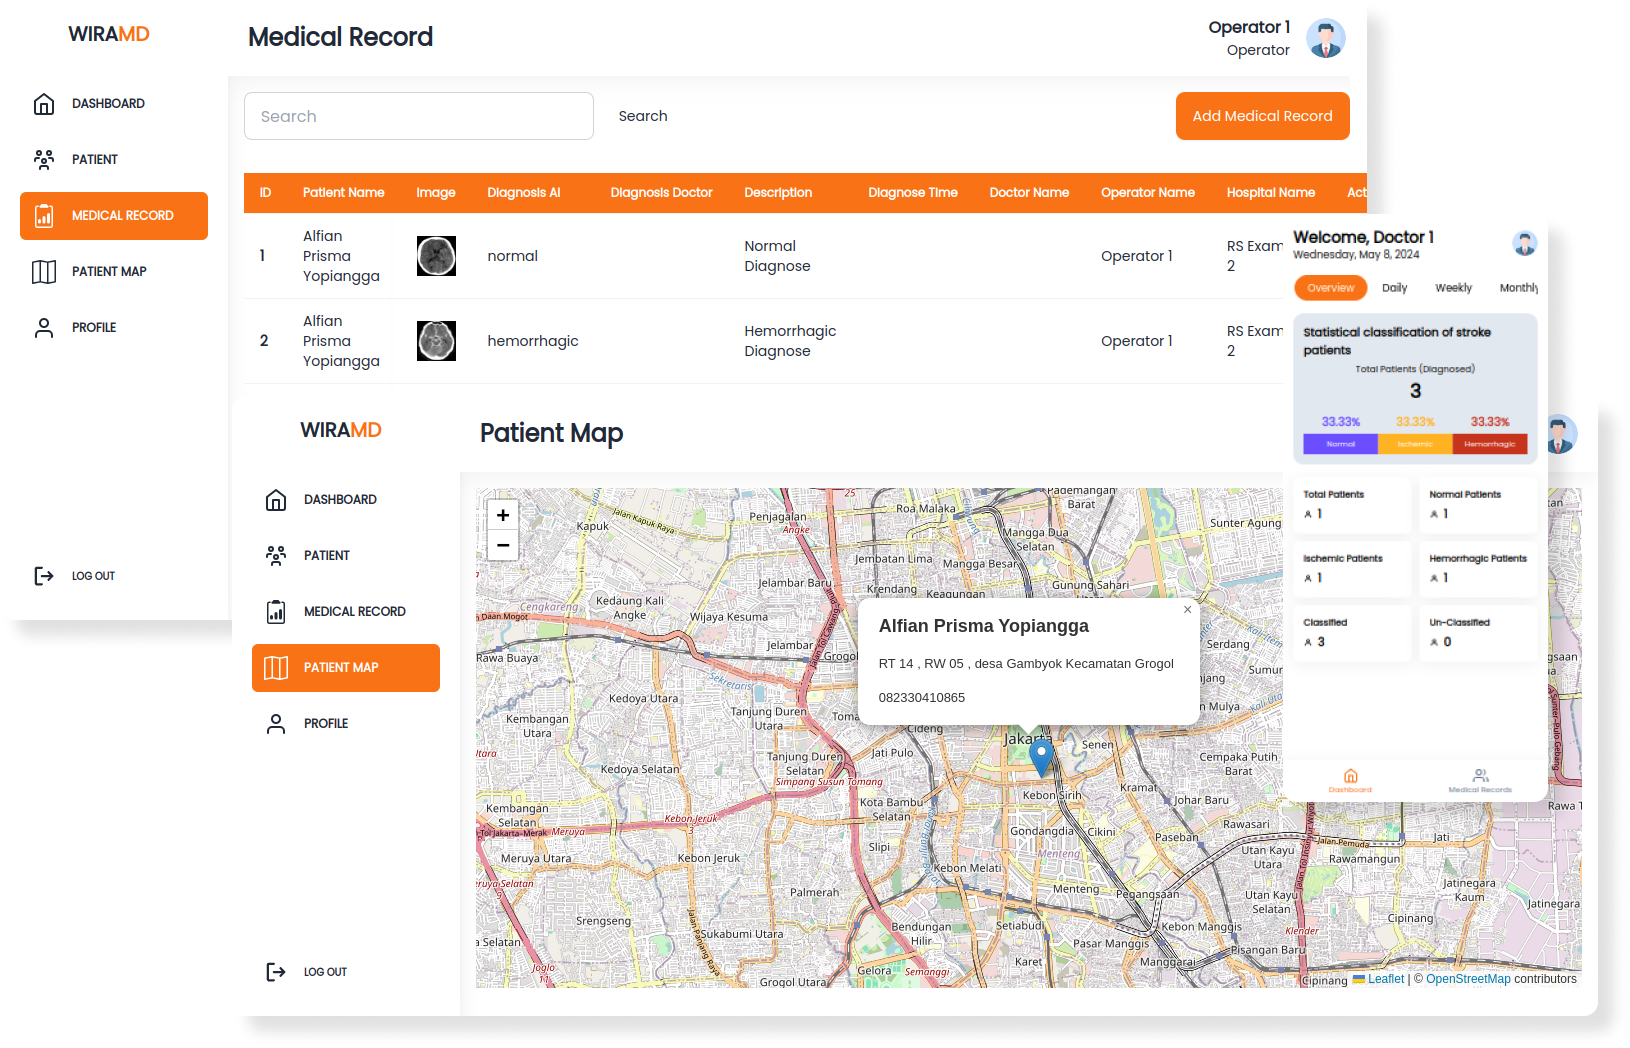
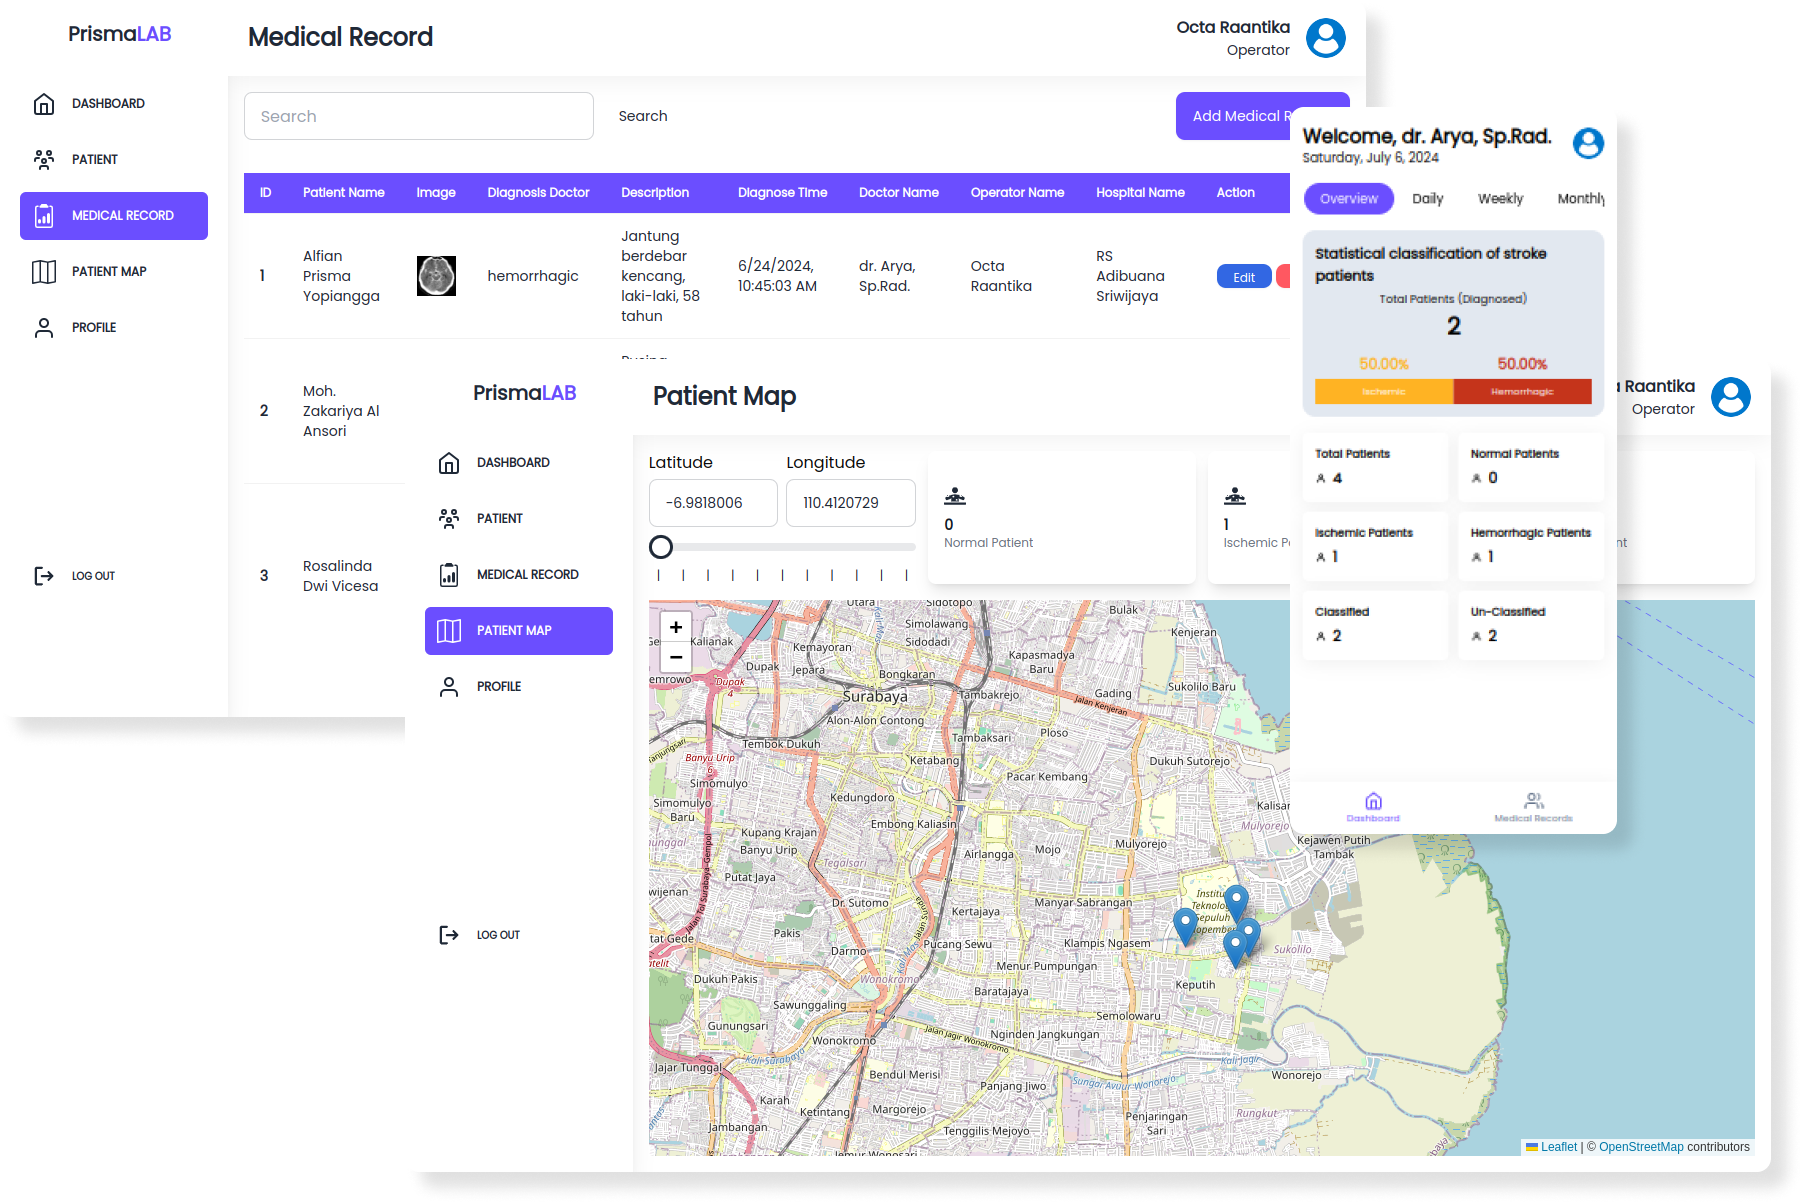
fpc

diff --git a/src/pages/landing/section/JobPositionSection.js b/src/pages/landing/section/JobPositionSection.js
@@ -11,7 +11,7 @@ export function JobPositionSection() {
           <h5 className="">Role</h5>
           <h2 className="text-5xl font-[500] mt-4">
             <span className="text-primary">Segmentation User</span> which
-            <br /> Operate in <span className="text-primary">WIRA MD</span>
+            <br /> Operate in <span className="text-primary">PRISMA LAB</span>
           </h2>
         </div>
 
@@ -19,12 +19,12 @@ export function JobPositionSection() {
           <Item
             number="01"
             title="Operator"
-            description="Responsible for operating the WIRA MD system add and upload data ct scan patient to classify stroke patients using deep learning."
+            description="Responsible for operating the system add and upload data ct scan patient to classify stroke patients using deep learning."
           />
           <Item
             number="02"
             title="Doctor"
-            description="Responsible for checking the results of the classification of stroke patients using the WIRA MD system."
+            description="Responsible for checking the results of the classification of stroke patients."
           />
         </div>
       </div>

diff --git a/src/pages/landing/section/MainSection.js b/src/pages/landing/section/MainSection.js
@@ -8,8 +8,8 @@ export function MainSection() {
         <div className="lg:col-span-4 col-span-12 text-left flex flex-col justify-center">
           <h3 className="text-4xl text-text">Welcome</h3>
           <h1 className="text-6xl font-bold mt-6 text-primary">
-            WIRA <br />
-            MD
+            PRISMA <br />
+            LAB
           </h1>
           <h2 className="text-5xl mt-8">
             Stroke <br />
@@ -21,11 +21,11 @@ export function MainSection() {
           </p>
           <div className="flex gap-2 mt-4">
             <a
-              href="https://wira-dashboard.alfian-py.site"
+              href="https://dashboard.alfian-py.site"
               target="_blank"
               className="bg-primary text-dark-300 font-[500] px-10 py-3 mt-4 hover:bg-dark-100 hover:text-primary duration-200 rounded-xl"
             >
-              Wira Dashboard
+              Dashboard
             </a>
           </div>
         </div>

diff --git a/src/pages/landing/section/TechnologySection.js b/src/pages/landing/section/TechnologySection.js
@@ -17,8 +17,8 @@ export function TechnologySection() {
         <div className="text-left lg:col-span-4 col-span-12">
           <h5 className="">Technology</h5>
           <h2 className="text-5xl font-[500] mt-4">
-            For Build System <br /> WIRA{" "}
-            <span className="text-primary">MD Stroke Classificaton</span>
+            For Build System <br /> PRISMA{" "}
+            <span className="text-primary">LAB Stroke Classificaton</span>
           </h2>
         </div>
         <div className="lg:col-span-8 col-span-12 lg:mt-0 mt-6">

diff --git a/src/pages/landing/section/FooterComponent.js b/src/pages/landing/section/FooterComponent.js
@@ -6,7 +6,7 @@ export function FooterComponent() {
       <div className="w-11/12 flex justify-between items-center">
         <div>
           <p>
-            &copy; 2024 wira<span className="text-primary">-md</span>. All
+            &copy; 2024 prisma<span className="text-primary">-lab</span>. All
             rights reserved.
           </p>
         </div>

diff --git a/src/pages/landing/section/NavbarComponent.js b/src/pages/landing/section/NavbarComponent.js
@@ -107,7 +107,7 @@ export function NavbarComponent() {
         </div>
         <div>
           <h1 className="font-bold">
-            wira<span className="text-primary">-md</span>
+            prisma<span className="text-primary">-lab</span>
           </h1>
         </div>
         <div className="lg:flex hidden gap-8 outline-none">

diff --git a/tailwind.config.js b/tailwind.config.js
@@ -4,7 +4,7 @@ module.exports = {
   theme: {
     extend: {
       colors: {
-        primary: "#f97316",
+        primary: "#6B4EFF",
         secondary: "",
         text: "#FFFFFFA6",
         accent: "#FFFFFF1A",
